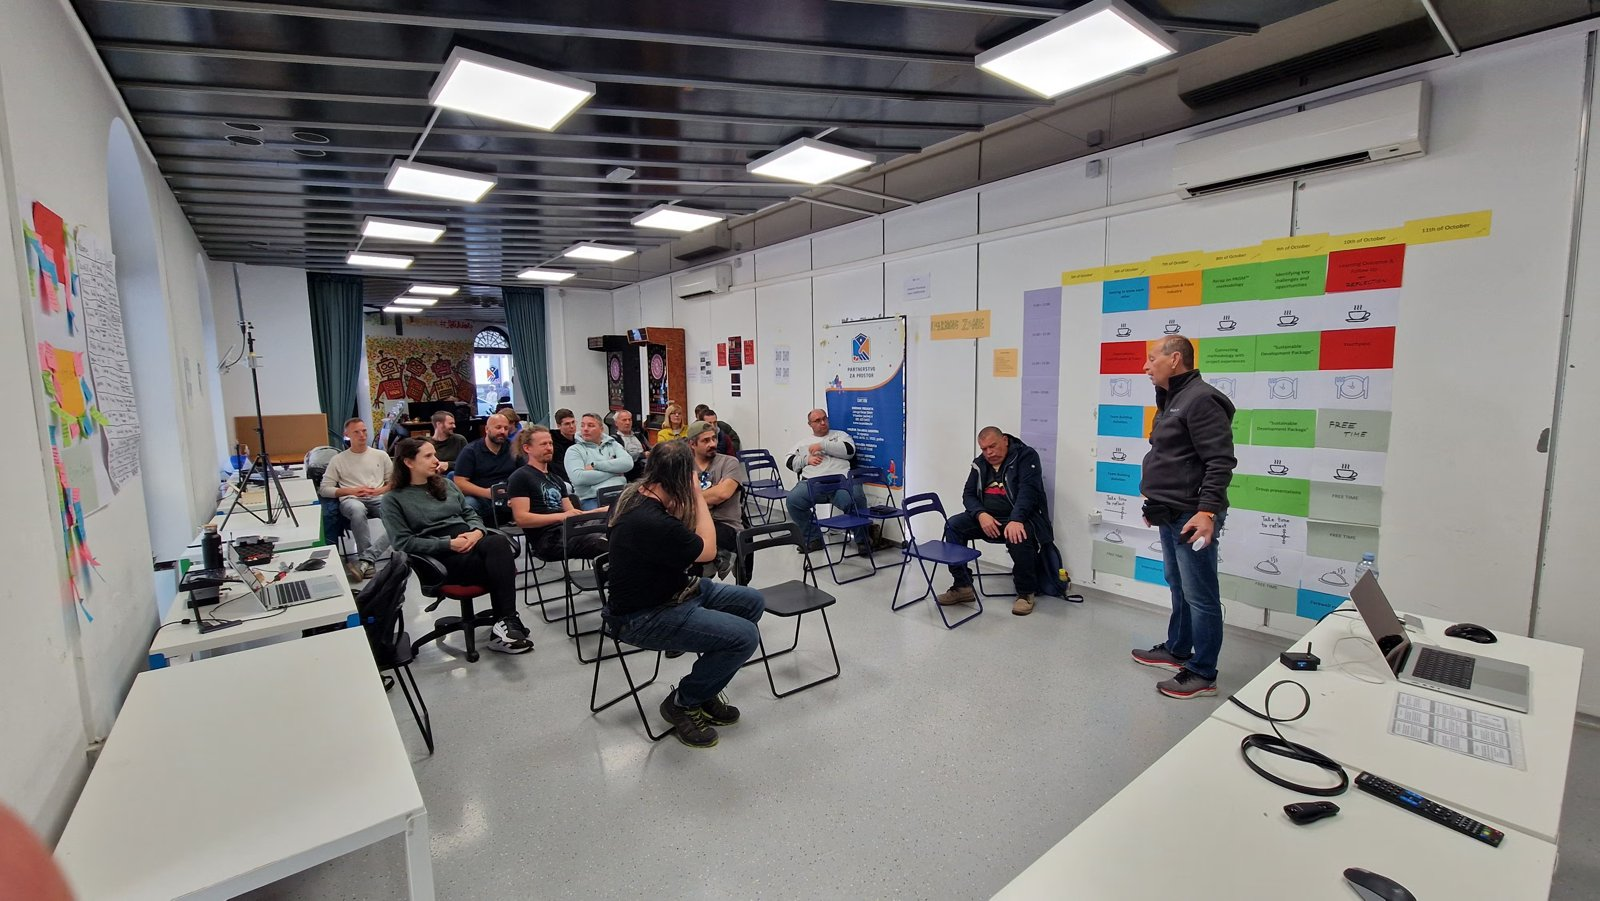
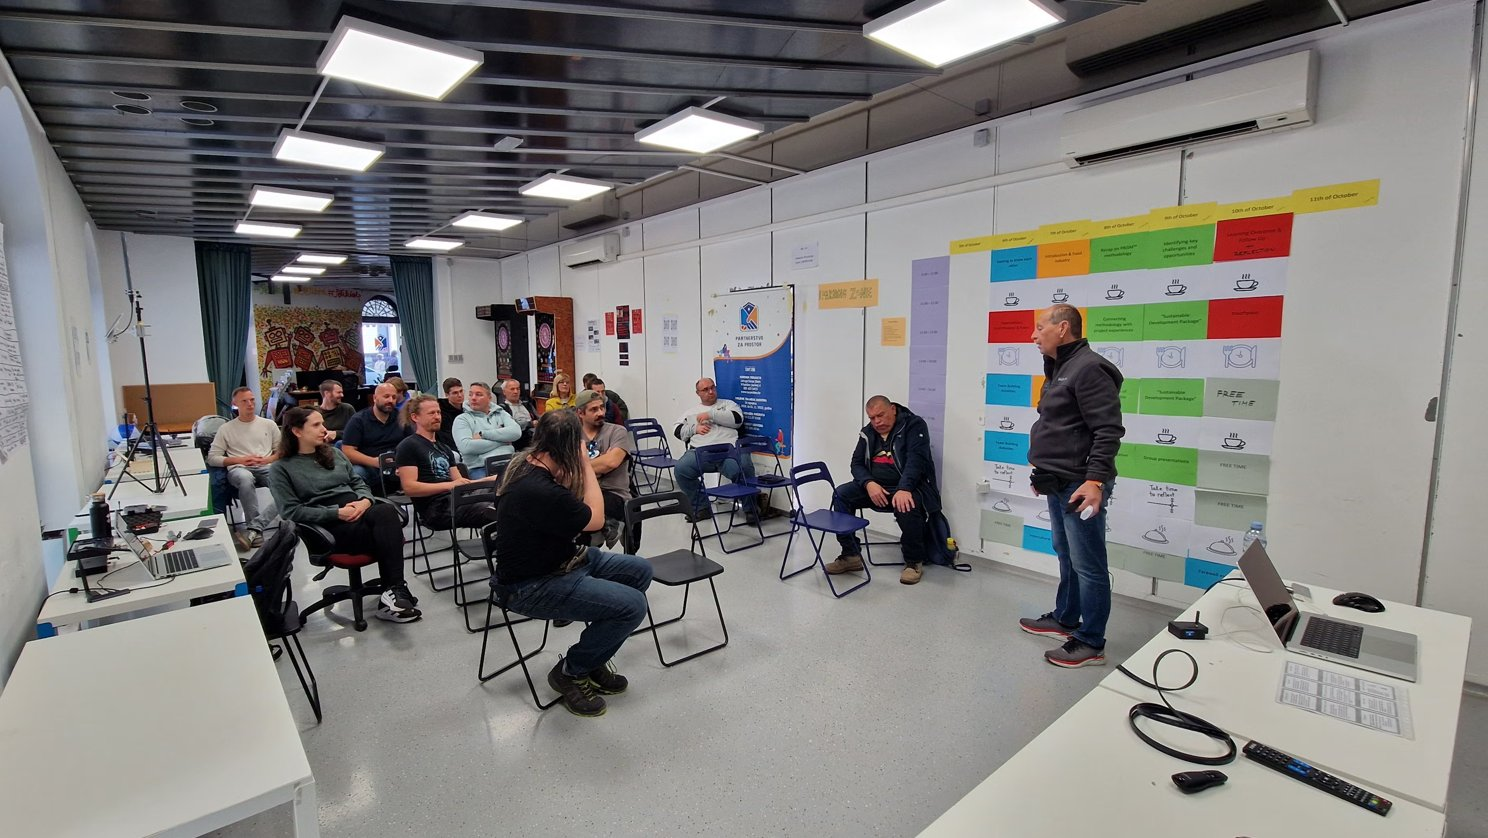
V4.0.1 - Standardi: obrezana fotografija

diff --git a/README.md b/README.md
@@ -64,7 +64,7 @@ v3.0.0   2026-07-22  Restrukturirana navigacija
 - **O zajednici:** fotografija sa susreta zajednice na dnu stranice.
 - **Pravila:** fotografija sa susreta članova na dnu stranice.
 - **Česta pitanja:** fotografija s radionice na dnu stranice.
-- **Standardi:** fotografija s radionice na dnu stranice.
+- **Standardi:** fotografija s radionice na dnu stranice (obrezana, uz zadržan omjer slike).
 - **Naslovnica:** plakat „Pridruži nam se na mreži i uživo” ispod odjeljka „Naše poveznice”.
 - **Opisi fotografija:** opisi (s autorima) dodani fotografijama na Uvodu, Naslovnici, Čestim pitanjima, Rješavanju problema, O zajednici, Pravilima i Standardima.
 
